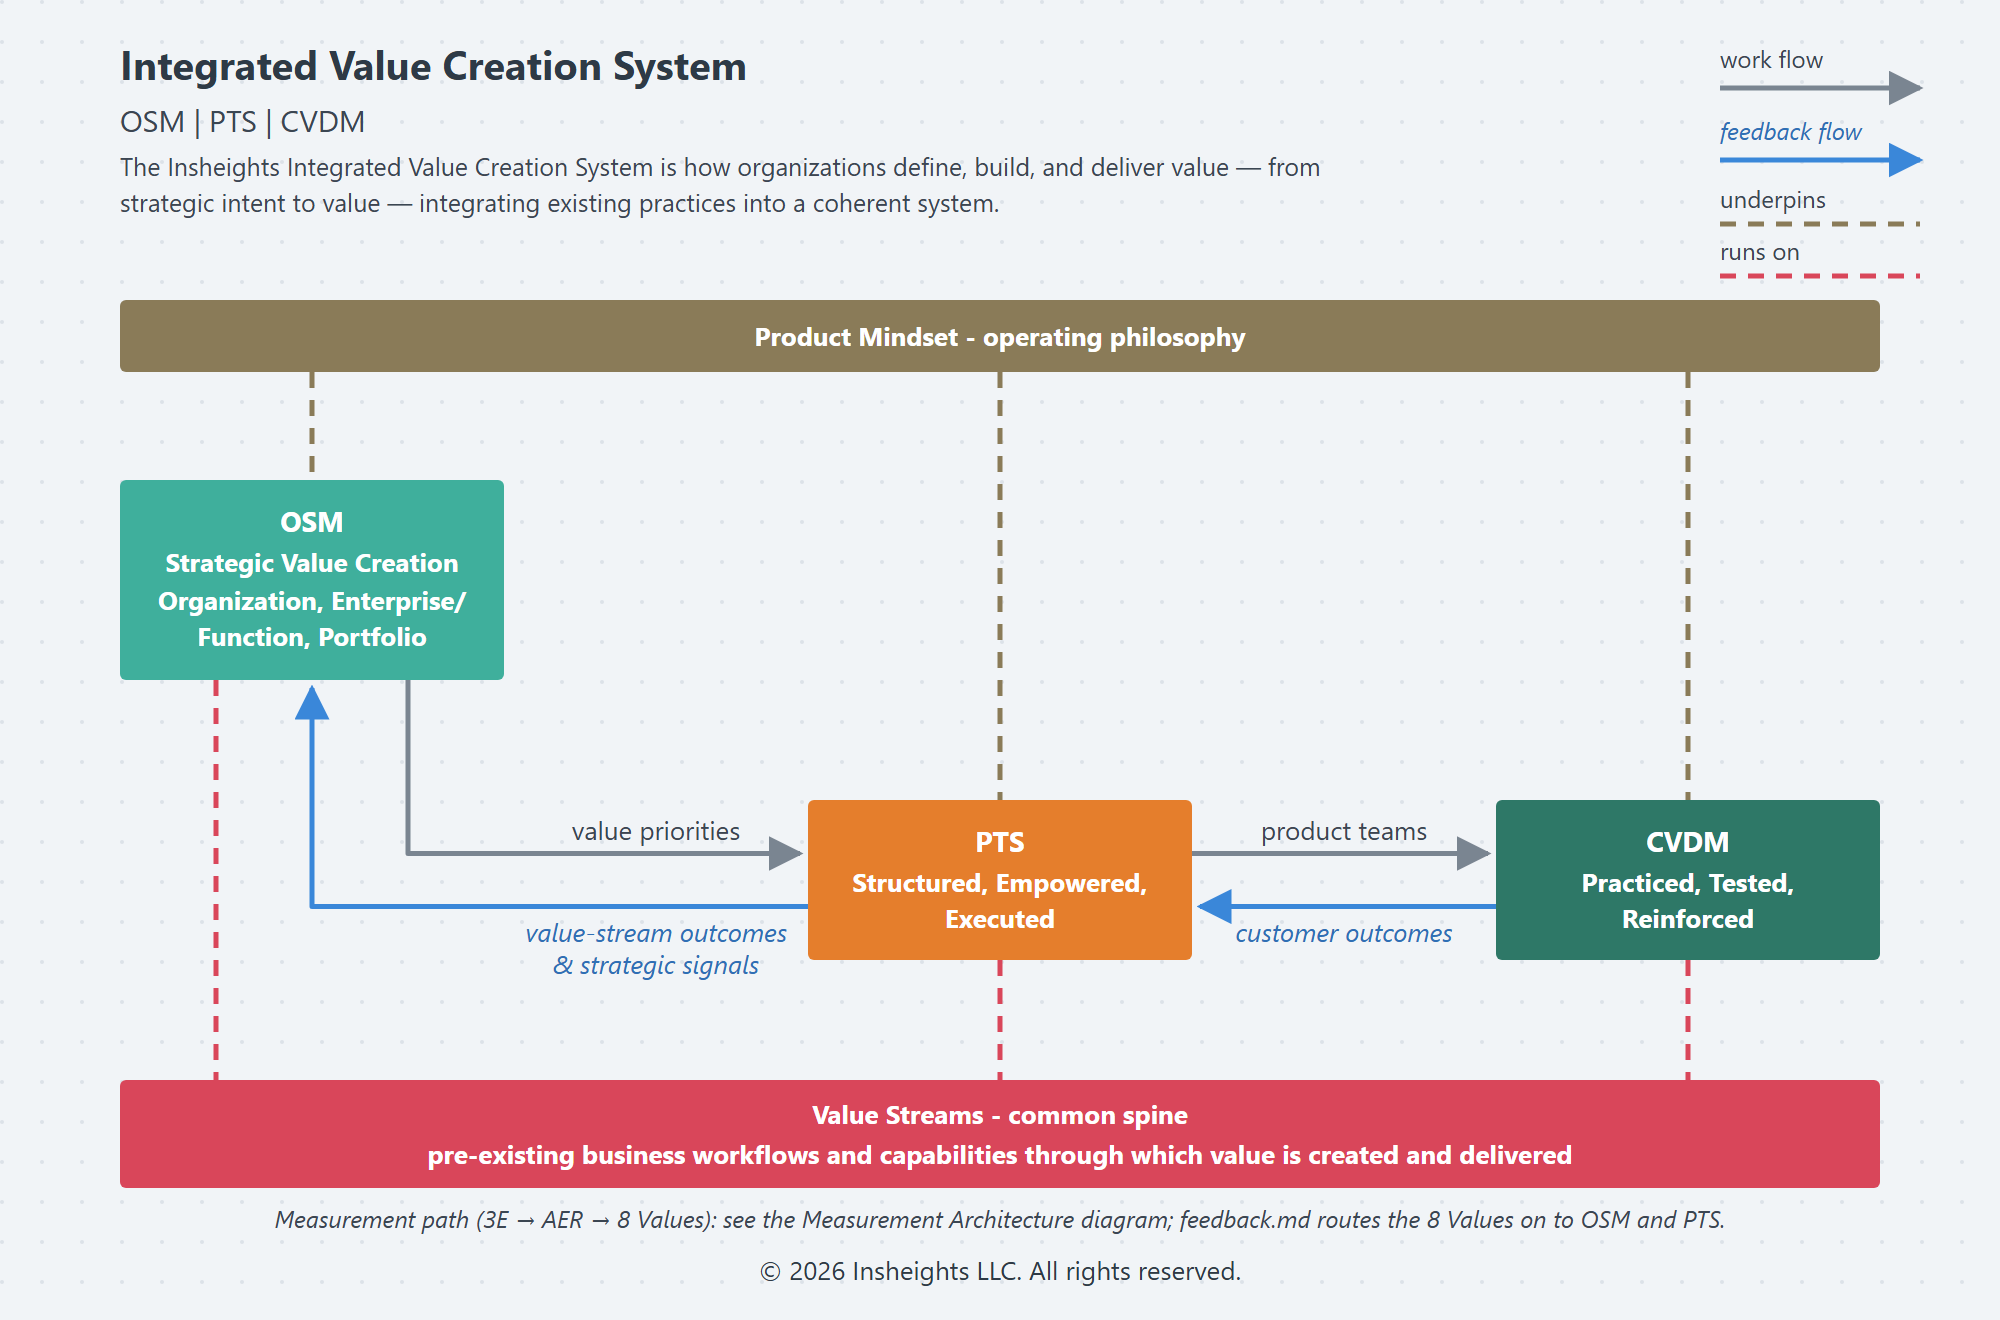
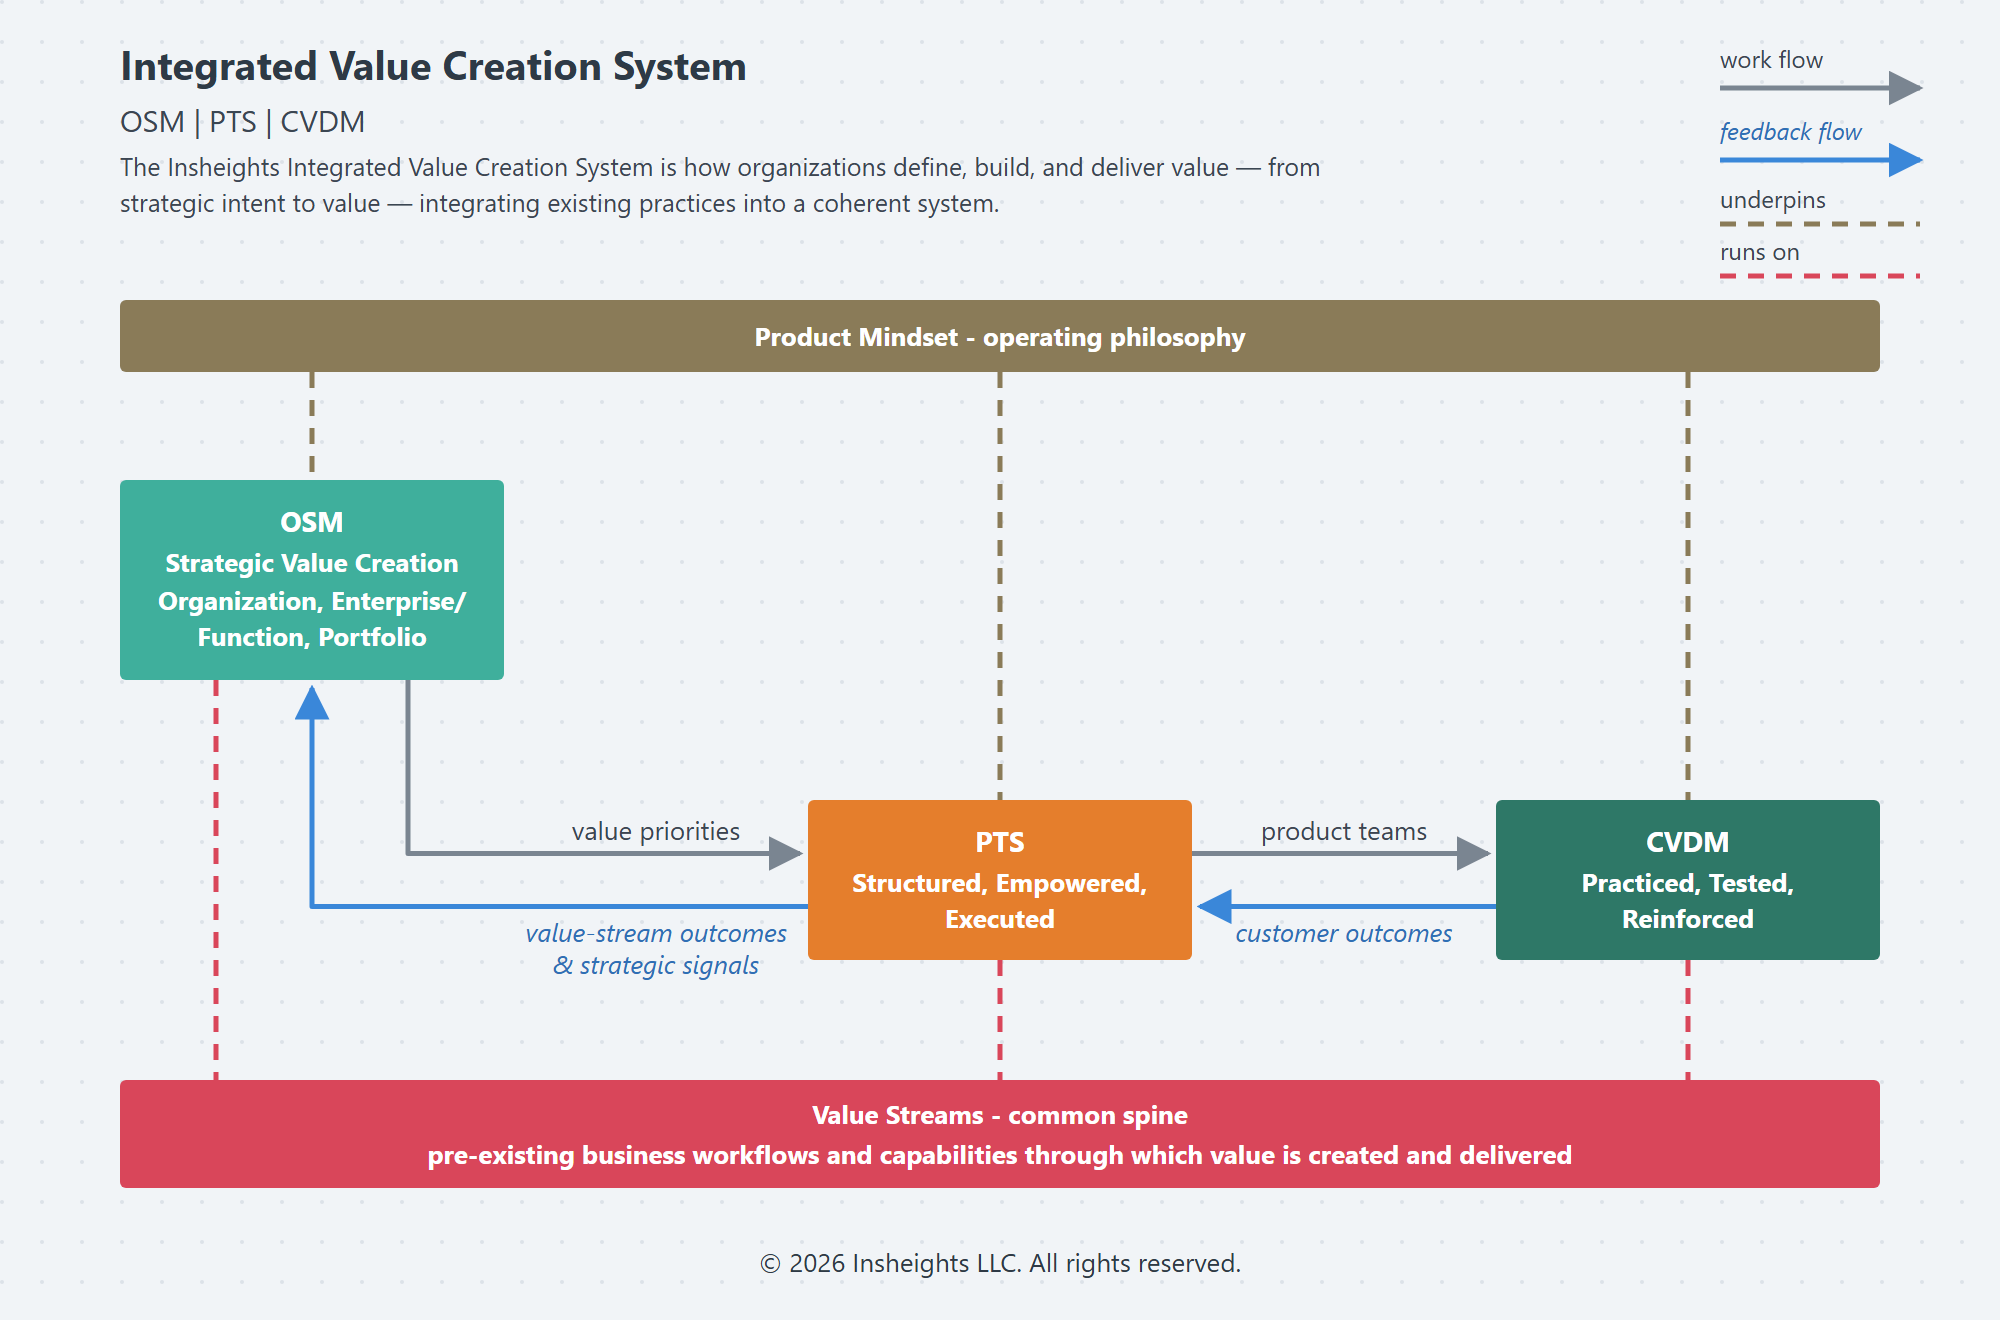
IIVCS diagram: drop the measurement footnote; point to it from README
The footnote named 3E, AER and the 8 Values, which the IIVCS diagram
does not show, and cross-referenced documents from inside an image.
The README now carries that pointer as a sentence under the diagram,
linking to the Measurement Architecture in the Summary.

Changed region(s): [[0.124, 0.9008, 0.868, 0.9939]]

diff --git a/README.md b/README.md
@@ -22,6 +22,8 @@ The Insheights Integrated Value Creation System (IIVCS) is how organizations def
 
 ![IIVCS Diagram](diagrams/iivcs.svg)
 
+Measurement runs alongside this system — see the [Measurement Architecture](#summary) in the Summary below.
+
 ---
 
 ## What Makes IIVCS Distinctive
